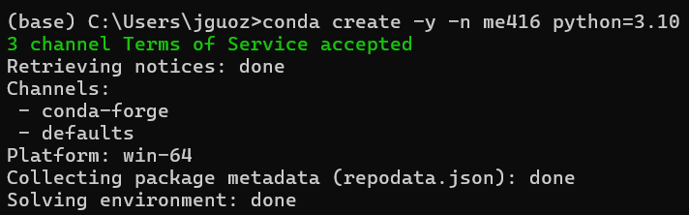
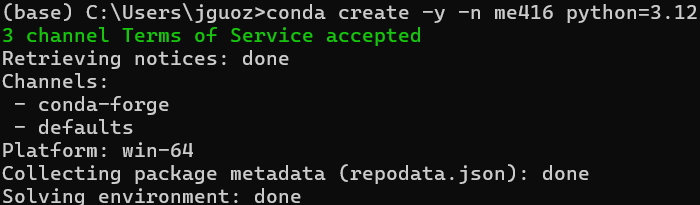
Add per-OS lerobot clone path in Lab0; update env-creation screenshot to Python 3.12

Changed region(s): [[0.0, 0.0, 1.0, 0.439], [0.0, 0.5854, 0.8534, 1.0], [0.0, 0.4683, 0.2438, 0.5854]]

diff --git a/Lab0.md b/Lab0.md
@@ -111,7 +111,15 @@ Then clone the repository:
 git clone https://github.com/huggingface/lerobot.git
 ```
 
-Then navigate into the cloned directory:
+This will create a new folder on your computer at:
+
+Windows: C:\Users\\<your-username\>\lerobot
+
+macOS: /Users/\<your-username\>/lerobot
+
+Linux: /home/\<your-username\>/lerobot
+
+You can navigate into the cloned directory:
 
 ```bash
 cd lerobot
@@ -133,6 +141,12 @@ e.  Installing other libraries: MuJoCo is a physics simulation engine we will us
 
 ```bash
 pip install mujoco matplotlib ipywidgets
+```
+
+If something didn't work out properly, you can use the following to delete the environment and start over. Make sure you're not currently inside that environment when you run it (run conda deactivate first if needed).
+
+```bash
+conda env remove -n me416
 ```
 
 **6. Install VS Code**
